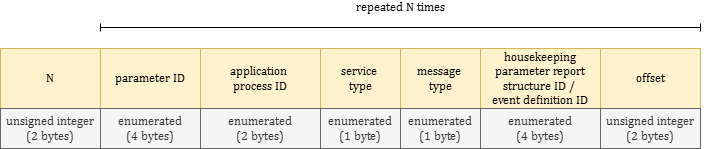
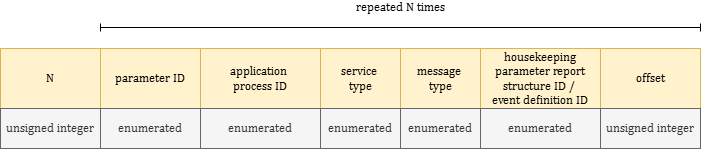
updates for service 26: data types without size

diff --git a/img/PUSpkt_26_4.html b/img/PUSpkt_26_4.html
@@ -6,7 +6,7 @@
 <meta charset="utf-8"/>
 </head>
 <body>
-<div class="mxgraph" style="max-width:100%;border:1px solid transparent;" data-mxgraph="{&quot;highlight&quot;:&quot;#0000ff&quot;,&quot;nav&quot;:true,&quot;resize&quot;:true,&quot;xml&quot;:&quot;&lt;mxfile host=\&quot;app.diagrams.net\&quot;&gt;&lt;diagram name=\&quot;Página-1\&quot; id=\&quot;PEEKEmfRfW4e5rl4SAep\&quot;&gt;&lt;mxGraphModel dx=\&quot;990\&quot; dy=\&quot;500\&quot; grid=\&quot;1\&quot; gridSize=\&quot;10\&quot; guides=\&quot;1\&quot; tooltips=\&quot;1\&quot; connect=\&quot;1\&quot; arrows=\&quot;1\&quot; fold=\&quot;1\&quot; page=\&quot;1\&quot; pageScale=\&quot;1\&quot; pageWidth=\&quot;1169\&quot; pageHeight=\&quot;827\&quot; math=\&quot;0\&quot; shadow=\&quot;0\&quot;&gt;&lt;root&gt;&lt;mxCell id=\&quot;0\&quot;/&gt;&lt;mxCell id=\&quot;1\&quot; parent=\&quot;0\&quot;/&gt;&lt;mxCell id=\&quot;n6o8E1BFqvfT5n5fjlNs-1\&quot; parent=\&quot;1\&quot; style=\&quot;rounded=0;whiteSpace=wrap;html=1;fillColor=#dae8fc;strokeColor=#6c8ebf;fontFamily=Cambria;\&quot; value=\&quot;N\&quot; vertex=\&quot;1\&quot;&gt;&lt;mxGeometry height=\&quot;80\&quot; width=\&quot;105\&quot; x=\&quot;80\&quot; y=\&quot;313\&quot; as=\&quot;geometry\&quot;/&gt;&lt;/mxCell&gt;&lt;mxCell id=\&quot;hAPcxWkqHWmj-aMiRUPT-4\&quot; parent=\&quot;1\&quot; style=\&quot;rounded=0;whiteSpace=wrap;html=1;fillColor=#dae8fc;strokeColor=#6c8ebf;fontFamily=Cambria;\&quot; value=\&quot;housekeeping parameter report structure ID /&amp;amp;nbsp;&amp;lt;div&amp;gt;event definition ID&amp;lt;/div&amp;gt;\&quot; vertex=\&quot;1\&quot;&gt;&lt;mxGeometry height=\&quot;80\&quot; width=\&quot;120\&quot; x=\&quot;550\&quot; y=\&quot;313\&quot; as=\&quot;geometry\&quot;/&gt;&lt;/mxCell&gt;&lt;mxCell id=\&quot;evMKkM_7Siz1nhXzdx8R-12\&quot; parent=\&quot;1\&quot; style=\&quot;rounded=0;whiteSpace=wrap;html=1;fillColor=#f5f5f5;strokeColor=#666666;fontColor=#333333;fontFamily=Cambria;\&quot; value=\&quot;unsigned&amp;amp;nbsp;&amp;lt;span style=&amp;quot;background-color: transparent; color: light-dark(rgb(51, 51, 51), rgb(193, 193, 193));&amp;quot;&amp;gt;integer&amp;lt;/span&amp;gt;&amp;lt;div&amp;gt;&amp;lt;span style=&amp;quot;background-color: transparent; color: light-dark(rgb(51, 51, 51), rgb(193, 193, 193));&amp;quot;&amp;gt;(2 bytes)&amp;lt;/span&amp;gt;&amp;lt;/div&amp;gt;\&quot; vertex=\&quot;1\&quot;&gt;&lt;mxGeometry height=\&quot;40\&quot; width=\&quot;105\&quot; x=\&quot;80\&quot; y=\&quot;393\&quot; as=\&quot;geometry\&quot;/&gt;&lt;/mxCell&gt;&lt;mxCell id=\&quot;hAPcxWkqHWmj-aMiRUPT-3\&quot; parent=\&quot;1\&quot; style=\&quot;rounded=0;whiteSpace=wrap;html=1;fillColor=#f5f5f5;strokeColor=#666666;fontColor=#333333;fontFamily=Cambria;\&quot; value=\&quot;&amp;lt;div&amp;gt;&amp;lt;br&amp;gt;&amp;lt;/div&amp;gt;&amp;lt;div&amp;gt;&amp;lt;span style=&amp;quot;color: rgb(51, 51, 51); background-color: rgb(236, 236, 236); float: none; display: inline !important;&amp;quot;&amp;gt;enumerated&amp;lt;/span&amp;gt;&amp;lt;div&amp;gt;(4 bytes)&amp;lt;br&amp;gt;&amp;lt;div&amp;gt;&amp;lt;br&amp;gt;&amp;lt;/div&amp;gt;&amp;lt;/div&amp;gt;&amp;lt;/div&amp;gt;\&quot; vertex=\&quot;1\&quot;&gt;&lt;mxGeometry height=\&quot;40\&quot; width=\&quot;120\&quot; x=\&quot;550\&quot; y=\&quot;393\&quot; as=\&quot;geometry\&quot;/&gt;&lt;/mxCell&gt;&lt;mxCell id=\&quot;jR5ShK0rZ74IJIbXl2Gh-2\&quot; edge=\&quot;1\&quot; parent=\&quot;1\&quot; style=\&quot;endArrow=baseDash;html=1;rounded=0;startArrow=baseDash;startFill=0;endFill=0;fontFamily=Cambria;fontSize=12;labelBackgroundColor=none;\&quot; value=\&quot;&amp;amp;nbsp;repeated N2 times&amp;amp;nbsp;\&quot;&gt;&lt;mxGeometry height=\&quot;50\&quot; relative=\&quot;1\&quot; width=\&quot;50\&quot; x=\&quot;0.1333\&quot; y=\&quot;20\&quot; as=\&quot;geometry\&quot;&gt;&lt;mxPoint as=\&quot;offset\&quot;/&gt;&lt;mxPoint x=\&quot;190\&quot; y=\&quot;300\&quot; as=\&quot;sourcePoint\&quot;/&gt;&lt;mxPoint x=\&quot;790\&quot; y=\&quot;300\&quot; as=\&quot;targetPoint\&quot;/&gt;&lt;/mxGeometry&gt;&lt;/mxCell&gt;&lt;mxCell id=\&quot;jR5ShK0rZ74IJIbXl2Gh-3\&quot; parent=\&quot;1\&quot; style=\&quot;rounded=0;whiteSpace=wrap;html=1;fillColor=#dae8fc;strokeColor=#6c8ebf;fontFamily=Cambria;\&quot; value=\&quot;message&amp;amp;nbsp;&amp;lt;div&amp;gt;type&amp;lt;/div&amp;gt;\&quot; vertex=\&quot;1\&quot;&gt;&lt;mxGeometry height=\&quot;80\&quot; width=\&quot;95\&quot; x=\&quot;455\&quot; y=\&quot;313\&quot; as=\&quot;geometry\&quot;/&gt;&lt;/mxCell&gt;&lt;mxCell id=\&quot;jR5ShK0rZ74IJIbXl2Gh-4\&quot; parent=\&quot;1\&quot; style=\&quot;rounded=0;whiteSpace=wrap;html=1;fillColor=#f5f5f5;strokeColor=#666666;fontColor=#333333;fontFamily=Cambria;\&quot; value=\&quot;&amp;lt;div&amp;gt;&amp;lt;div&amp;gt;&amp;lt;div&amp;gt;&amp;lt;br&amp;gt;&amp;lt;/div&amp;gt;&amp;lt;/div&amp;gt;&amp;lt;/div&amp;gt;&amp;lt;div&amp;gt;&amp;lt;span style=&amp;quot;color: rgb(51, 51, 51); background-color: rgb(236, 236, 236); float: none; display: inline !important;&amp;quot;&amp;gt;enumerated&amp;lt;/span&amp;gt;&amp;lt;div&amp;gt;(1 byte)&amp;lt;br&amp;gt;&amp;lt;div&amp;gt;&amp;lt;br&amp;gt;&amp;lt;/div&amp;gt;&amp;lt;/div&amp;gt;&amp;lt;/div&amp;gt;\&quot; vertex=\&quot;1\&quot;&gt;&lt;mxGeometry height=\&quot;40\&quot; width=\&quot;95\&quot; x=\&quot;455\&quot; y=\&quot;393\&quot; as=\&quot;geometry\&quot;/&gt;&lt;/mxCell&gt;&lt;mxCell id=\&quot;jR5ShK0rZ74IJIbXl2Gh-5\&quot; parent=\&quot;1\&quot; style=\&quot;rounded=0;whiteSpace=wrap;html=1;fillColor=#dae8fc;strokeColor=#6c8ebf;fontFamily=Cambria;\&quot; value=\&quot;parameter ID\&quot; vertex=\&quot;1\&quot;&gt;&lt;mxGeometry height=\&quot;80\&quot; width=\&quot;95\&quot; x=\&quot;185\&quot; y=\&quot;313\&quot; as=\&quot;geometry\&quot;/&gt;&lt;/mxCell&gt;&lt;mxCell id=\&quot;jR5ShK0rZ74IJIbXl2Gh-6\&quot; parent=\&quot;1\&quot; style=\&quot;rounded=0;whiteSpace=wrap;html=1;fillColor=#f5f5f5;strokeColor=#666666;fontColor=#333333;fontFamily=Cambria;\&quot; value=\&quot;&amp;lt;div&amp;gt;&amp;lt;br&amp;gt;&amp;lt;/div&amp;gt;&amp;lt;span style=&amp;quot;color: rgb(51, 51, 51); font-family: Cambria; font-size: 12px; font-style: normal; font-variant-ligatures: normal; font-variant-caps: normal; font-weight: 400; letter-spacing: normal; orphans: 2; text-align: center; text-indent: 0px; text-transform: none; widows: 2; word-spacing: 0px; -webkit-text-stroke-width: 0px; white-space: normal; background-color: rgb(236, 236, 236); text-decoration-thickness: initial; text-decoration-style: initial; text-decoration-color: initial; float: none; display: inline !important;&amp;quot;&amp;gt;enumerated&amp;lt;/span&amp;gt;&amp;lt;div&amp;gt;(4 bytes)&amp;lt;br&amp;gt;&amp;lt;div&amp;gt;&amp;lt;br&amp;gt;&amp;lt;/div&amp;gt;&amp;lt;/div&amp;gt;\&quot; vertex=\&quot;1\&quot;&gt;&lt;mxGeometry height=\&quot;40\&quot; width=\&quot;95\&quot; x=\&quot;185\&quot; y=\&quot;393\&quot; as=\&quot;geometry\&quot;/&gt;&lt;/mxCell&gt;&lt;mxCell id=\&quot;jR5ShK0rZ74IJIbXl2Gh-7\&quot; parent=\&quot;1\&quot; style=\&quot;rounded=0;whiteSpace=wrap;html=1;fillColor=#dae8fc;strokeColor=#6c8ebf;fontFamily=Cambria;\&quot; value=\&quot;service type\&quot; vertex=\&quot;1\&quot;&gt;&lt;mxGeometry height=\&quot;80\&quot; width=\&quot;95\&quot; x=\&quot;360\&quot; y=\&quot;313\&quot; as=\&quot;geometry\&quot;/&gt;&lt;/mxCell&gt;&lt;mxCell id=\&quot;jR5ShK0rZ74IJIbXl2Gh-8\&quot; parent=\&quot;1\&quot; style=\&quot;rounded=0;whiteSpace=wrap;html=1;fillColor=#f5f5f5;strokeColor=#666666;fontColor=#333333;fontFamily=Cambria;\&quot; value=\&quot;&amp;lt;br&amp;gt;&amp;lt;div&amp;gt;&amp;lt;span style=&amp;quot;color: rgb(51, 51, 51); background-color: rgb(236, 236, 236); float: none; display: inline !important;&amp;quot;&amp;gt;enumerated&amp;lt;/span&amp;gt;&amp;lt;div&amp;gt;(1 byte)&amp;lt;br&amp;gt;&amp;lt;div&amp;gt;&amp;lt;br&amp;gt;&amp;lt;/div&amp;gt;&amp;lt;/div&amp;gt;&amp;lt;/div&amp;gt;\&quot; vertex=\&quot;1\&quot;&gt;&lt;mxGeometry height=\&quot;40\&quot; width=\&quot;95\&quot; x=\&quot;360\&quot; y=\&quot;393\&quot; as=\&quot;geometry\&quot;/&gt;&lt;/mxCell&gt;&lt;mxCell id=\&quot;jR5ShK0rZ74IJIbXl2Gh-9\&quot; parent=\&quot;1\&quot; style=\&quot;rounded=0;whiteSpace=wrap;html=1;fillColor=#dae8fc;strokeColor=#6c8ebf;fontFamily=Cambria;\&quot; value=\&quot;application process ID\&quot; vertex=\&quot;1\&quot;&gt;&lt;mxGeometry height=\&quot;80\&quot; width=\&quot;80\&quot; x=\&quot;280\&quot; y=\&quot;313\&quot; as=\&quot;geometry\&quot;/&gt;&lt;/mxCell&gt;&lt;mxCell id=\&quot;jR5ShK0rZ74IJIbXl2Gh-10\&quot; parent=\&quot;1\&quot; style=\&quot;rounded=0;whiteSpace=wrap;html=1;fillColor=#f5f5f5;strokeColor=#666666;fontColor=#333333;fontFamily=Cambria;\&quot; value=\&quot;&amp;lt;br&amp;gt;&amp;lt;div&amp;gt;&amp;lt;span style=&amp;quot;color: rgb(51, 51, 51); background-color: rgb(236, 236, 236); float: none; display: inline !important;&amp;quot;&amp;gt;enumerated&amp;lt;/span&amp;gt;&amp;lt;div&amp;gt;(2 bytes)&amp;lt;br&amp;gt;&amp;lt;div&amp;gt;&amp;lt;br&amp;gt;&amp;lt;/div&amp;gt;&amp;lt;/div&amp;gt;&amp;lt;/div&amp;gt;\&quot; vertex=\&quot;1\&quot;&gt;&lt;mxGeometry height=\&quot;40\&quot; width=\&quot;80\&quot; x=\&quot;280\&quot; y=\&quot;393\&quot; as=\&quot;geometry\&quot;/&gt;&lt;/mxCell&gt;&lt;mxCell id=\&quot;X7iC9lxR5XgA4CCo0ZHM-1\&quot; parent=\&quot;1\&quot; style=\&quot;rounded=0;whiteSpace=wrap;html=1;fillColor=#dae8fc;strokeColor=#6c8ebf;fontFamily=Cambria;\&quot; value=\&quot;offset\&quot; vertex=\&quot;1\&quot;&gt;&lt;mxGeometry height=\&quot;80\&quot; width=\&quot;120\&quot; x=\&quot;670\&quot; y=\&quot;313\&quot; as=\&quot;geometry\&quot;/&gt;&lt;/mxCell&gt;&lt;mxCell id=\&quot;X7iC9lxR5XgA4CCo0ZHM-2\&quot; parent=\&quot;1\&quot; style=\&quot;rounded=0;whiteSpace=wrap;html=1;fillColor=#f5f5f5;strokeColor=#666666;fontColor=#333333;fontFamily=Cambria;\&quot; value=\&quot;&amp;lt;div&amp;gt;unsigned &amp;lt;span style=&amp;quot;color: light-dark(rgb(51, 51, 51), rgb(193, 193, 193)); background-color: transparent;&amp;quot;&amp;gt;integer&amp;lt;/span&amp;gt;&amp;lt;div&amp;gt;&amp;lt;span style=&amp;quot;background-color: transparent; color: light-dark(rgb(51, 51, 51), rgb(193, 193, 193));&amp;quot;&amp;gt;(2 bytes)&amp;lt;/span&amp;gt;&amp;lt;/div&amp;gt;&amp;lt;/div&amp;gt;\&quot; vertex=\&quot;1\&quot;&gt;&lt;mxGeometry height=\&quot;40\&quot; width=\&quot;120\&quot; x=\&quot;670\&quot; y=\&quot;393\&quot; as=\&quot;geometry\&quot;/&gt;&lt;/mxCell&gt;&lt;/root&gt;&lt;/mxGraphModel&gt;&lt;/diagram&gt;&lt;/mxfile&gt;&quot;,&quot;toolbar&quot;:&quot;pages zoom layers lightbox&quot;,&quot;page&quot;:0}"></div>
+<div class="mxgraph" style="max-width:100%;border:1px solid transparent;" data-mxgraph="{&quot;highlight&quot;:&quot;#0000ff&quot;,&quot;nav&quot;:true,&quot;resize&quot;:true,&quot;xml&quot;:&quot;&lt;mxfile host=\&quot;app.diagrams.net\&quot;&gt;&lt;diagram name=\&quot;Página-1\&quot; id=\&quot;PEEKEmfRfW4e5rl4SAep\&quot;&gt;&lt;mxGraphModel dx=\&quot;1087\&quot; dy=\&quot;737\&quot; grid=\&quot;1\&quot; gridSize=\&quot;10\&quot; guides=\&quot;1\&quot; tooltips=\&quot;1\&quot; connect=\&quot;1\&quot; arrows=\&quot;1\&quot; fold=\&quot;1\&quot; page=\&quot;1\&quot; pageScale=\&quot;1\&quot; pageWidth=\&quot;1169\&quot; pageHeight=\&quot;827\&quot; math=\&quot;0\&quot; shadow=\&quot;0\&quot;&gt;&lt;root&gt;&lt;mxCell id=\&quot;0\&quot;/&gt;&lt;mxCell id=\&quot;1\&quot; parent=\&quot;0\&quot;/&gt;&lt;mxCell id=\&quot;n6o8E1BFqvfT5n5fjlNs-1\&quot; parent=\&quot;1\&quot; style=\&quot;rounded=0;whiteSpace=wrap;html=1;fillColor=#dae8fc;strokeColor=#6c8ebf;fontFamily=Cambria;\&quot; value=\&quot;N\&quot; vertex=\&quot;1\&quot;&gt;&lt;mxGeometry height=\&quot;80\&quot; width=\&quot;105\&quot; x=\&quot;80\&quot; y=\&quot;313\&quot; as=\&quot;geometry\&quot;/&gt;&lt;/mxCell&gt;&lt;mxCell id=\&quot;hAPcxWkqHWmj-aMiRUPT-4\&quot; parent=\&quot;1\&quot; style=\&quot;rounded=0;whiteSpace=wrap;html=1;fillColor=#dae8fc;strokeColor=#6c8ebf;fontFamily=Cambria;\&quot; value=\&quot;housekeeping parameter report structure ID /&amp;amp;nbsp;&amp;lt;div&amp;gt;event definition ID&amp;lt;/div&amp;gt;\&quot; vertex=\&quot;1\&quot;&gt;&lt;mxGeometry height=\&quot;80\&quot; width=\&quot;120\&quot; x=\&quot;550\&quot; y=\&quot;313\&quot; as=\&quot;geometry\&quot;/&gt;&lt;/mxCell&gt;&lt;mxCell id=\&quot;evMKkM_7Siz1nhXzdx8R-12\&quot; parent=\&quot;1\&quot; style=\&quot;rounded=0;whiteSpace=wrap;html=1;fillColor=#f5f5f5;strokeColor=#666666;fontColor=#333333;fontFamily=Cambria;\&quot; value=\&quot;unsigned&amp;amp;nbsp;&amp;lt;span style=&amp;quot;background-color: transparent; color: light-dark(rgb(51, 51, 51), rgb(193, 193, 193));&amp;quot;&amp;gt;integer&amp;lt;/span&amp;gt;\&quot; vertex=\&quot;1\&quot;&gt;&lt;mxGeometry height=\&quot;40\&quot; width=\&quot;105\&quot; x=\&quot;80\&quot; y=\&quot;393\&quot; as=\&quot;geometry\&quot;/&gt;&lt;/mxCell&gt;&lt;mxCell id=\&quot;hAPcxWkqHWmj-aMiRUPT-3\&quot; parent=\&quot;1\&quot; style=\&quot;rounded=0;whiteSpace=wrap;html=1;fillColor=#f5f5f5;strokeColor=#666666;fontColor=#333333;fontFamily=Cambria;\&quot; value=\&quot;&amp;lt;div&amp;gt;&amp;lt;br&amp;gt;&amp;lt;/div&amp;gt;&amp;lt;div&amp;gt;&amp;lt;span style=&amp;quot;color: rgb(51, 51, 51); background-color: rgb(236, 236, 236); float: none; display: inline !important;&amp;quot;&amp;gt;enumerated&amp;lt;/span&amp;gt;&amp;lt;div&amp;gt;&amp;lt;div&amp;gt;&amp;lt;br&amp;gt;&amp;lt;/div&amp;gt;&amp;lt;/div&amp;gt;&amp;lt;/div&amp;gt;\&quot; vertex=\&quot;1\&quot;&gt;&lt;mxGeometry height=\&quot;40\&quot; width=\&quot;120\&quot; x=\&quot;550\&quot; y=\&quot;393\&quot; as=\&quot;geometry\&quot;/&gt;&lt;/mxCell&gt;&lt;mxCell id=\&quot;jR5ShK0rZ74IJIbXl2Gh-2\&quot; edge=\&quot;1\&quot; parent=\&quot;1\&quot; style=\&quot;endArrow=baseDash;html=1;rounded=0;startArrow=baseDash;startFill=0;endFill=0;fontFamily=Cambria;fontSize=12;labelBackgroundColor=none;\&quot; value=\&quot;&amp;amp;nbsp;repeated N2 times&amp;amp;nbsp;\&quot;&gt;&lt;mxGeometry height=\&quot;50\&quot; relative=\&quot;1\&quot; width=\&quot;50\&quot; x=\&quot;0.1333\&quot; y=\&quot;20\&quot; as=\&quot;geometry\&quot;&gt;&lt;mxPoint as=\&quot;offset\&quot;/&gt;&lt;mxPoint x=\&quot;190\&quot; y=\&quot;300\&quot; as=\&quot;sourcePoint\&quot;/&gt;&lt;mxPoint x=\&quot;790\&quot; y=\&quot;300\&quot; as=\&quot;targetPoint\&quot;/&gt;&lt;/mxGeometry&gt;&lt;/mxCell&gt;&lt;mxCell id=\&quot;jR5ShK0rZ74IJIbXl2Gh-3\&quot; parent=\&quot;1\&quot; style=\&quot;rounded=0;whiteSpace=wrap;html=1;fillColor=#dae8fc;strokeColor=#6c8ebf;fontFamily=Cambria;\&quot; value=\&quot;message&amp;amp;nbsp;&amp;lt;div&amp;gt;type&amp;lt;/div&amp;gt;\&quot; vertex=\&quot;1\&quot;&gt;&lt;mxGeometry height=\&quot;80\&quot; width=\&quot;95\&quot; x=\&quot;455\&quot; y=\&quot;313\&quot; as=\&quot;geometry\&quot;/&gt;&lt;/mxCell&gt;&lt;mxCell id=\&quot;jR5ShK0rZ74IJIbXl2Gh-4\&quot; parent=\&quot;1\&quot; style=\&quot;rounded=0;whiteSpace=wrap;html=1;fillColor=#f5f5f5;strokeColor=#666666;fontColor=#333333;fontFamily=Cambria;\&quot; value=\&quot;&amp;lt;div&amp;gt;&amp;lt;div&amp;gt;&amp;lt;div&amp;gt;&amp;lt;br&amp;gt;&amp;lt;/div&amp;gt;&amp;lt;/div&amp;gt;&amp;lt;/div&amp;gt;&amp;lt;div&amp;gt;&amp;lt;span style=&amp;quot;color: rgb(51, 51, 51); background-color: rgb(236, 236, 236); float: none; display: inline !important;&amp;quot;&amp;gt;enumerated&amp;lt;/span&amp;gt;&amp;lt;div&amp;gt;&amp;lt;div&amp;gt;&amp;lt;br&amp;gt;&amp;lt;/div&amp;gt;&amp;lt;/div&amp;gt;&amp;lt;/div&amp;gt;\&quot; vertex=\&quot;1\&quot;&gt;&lt;mxGeometry height=\&quot;40\&quot; width=\&quot;95\&quot; x=\&quot;455\&quot; y=\&quot;393\&quot; as=\&quot;geometry\&quot;/&gt;&lt;/mxCell&gt;&lt;mxCell id=\&quot;jR5ShK0rZ74IJIbXl2Gh-5\&quot; parent=\&quot;1\&quot; style=\&quot;rounded=0;whiteSpace=wrap;html=1;fillColor=#dae8fc;strokeColor=#6c8ebf;fontFamily=Cambria;\&quot; value=\&quot;parameter ID\&quot; vertex=\&quot;1\&quot;&gt;&lt;mxGeometry height=\&quot;80\&quot; width=\&quot;95\&quot; x=\&quot;185\&quot; y=\&quot;313\&quot; as=\&quot;geometry\&quot;/&gt;&lt;/mxCell&gt;&lt;mxCell id=\&quot;jR5ShK0rZ74IJIbXl2Gh-6\&quot; parent=\&quot;1\&quot; style=\&quot;rounded=0;whiteSpace=wrap;html=1;fillColor=#f5f5f5;strokeColor=#666666;fontColor=#333333;fontFamily=Cambria;\&quot; value=\&quot;&amp;lt;div&amp;gt;&amp;lt;br&amp;gt;&amp;lt;/div&amp;gt;&amp;lt;span style=&amp;quot;color: rgb(51, 51, 51); font-family: Cambria; font-size: 12px; font-style: normal; font-variant-ligatures: normal; font-variant-caps: normal; font-weight: 400; letter-spacing: normal; orphans: 2; text-align: center; text-indent: 0px; text-transform: none; widows: 2; word-spacing: 0px; -webkit-text-stroke-width: 0px; white-space: normal; background-color: rgb(236, 236, 236); text-decoration-thickness: initial; text-decoration-style: initial; text-decoration-color: initial; float: none; display: inline !important;&amp;quot;&amp;gt;enumerated&amp;lt;/span&amp;gt;&amp;lt;div&amp;gt;&amp;lt;div&amp;gt;&amp;lt;br&amp;gt;&amp;lt;/div&amp;gt;&amp;lt;/div&amp;gt;\&quot; vertex=\&quot;1\&quot;&gt;&lt;mxGeometry height=\&quot;40\&quot; width=\&quot;95\&quot; x=\&quot;185\&quot; y=\&quot;393\&quot; as=\&quot;geometry\&quot;/&gt;&lt;/mxCell&gt;&lt;mxCell id=\&quot;jR5ShK0rZ74IJIbXl2Gh-7\&quot; parent=\&quot;1\&quot; style=\&quot;rounded=0;whiteSpace=wrap;html=1;fillColor=#dae8fc;strokeColor=#6c8ebf;fontFamily=Cambria;\&quot; value=\&quot;service type\&quot; vertex=\&quot;1\&quot;&gt;&lt;mxGeometry height=\&quot;80\&quot; width=\&quot;95\&quot; x=\&quot;360\&quot; y=\&quot;313\&quot; as=\&quot;geometry\&quot;/&gt;&lt;/mxCell&gt;&lt;mxCell id=\&quot;jR5ShK0rZ74IJIbXl2Gh-8\&quot; parent=\&quot;1\&quot; style=\&quot;rounded=0;whiteSpace=wrap;html=1;fillColor=#f5f5f5;strokeColor=#666666;fontColor=#333333;fontFamily=Cambria;\&quot; value=\&quot;&amp;lt;br&amp;gt;&amp;lt;div&amp;gt;&amp;lt;span style=&amp;quot;color: rgb(51, 51, 51); background-color: rgb(236, 236, 236); float: none; display: inline !important;&amp;quot;&amp;gt;enumerated&amp;lt;/span&amp;gt;&amp;lt;div&amp;gt;&amp;lt;div&amp;gt;&amp;lt;br&amp;gt;&amp;lt;/div&amp;gt;&amp;lt;/div&amp;gt;&amp;lt;/div&amp;gt;\&quot; vertex=\&quot;1\&quot;&gt;&lt;mxGeometry height=\&quot;40\&quot; width=\&quot;95\&quot; x=\&quot;360\&quot; y=\&quot;393\&quot; as=\&quot;geometry\&quot;/&gt;&lt;/mxCell&gt;&lt;mxCell id=\&quot;jR5ShK0rZ74IJIbXl2Gh-9\&quot; parent=\&quot;1\&quot; style=\&quot;rounded=0;whiteSpace=wrap;html=1;fillColor=#dae8fc;strokeColor=#6c8ebf;fontFamily=Cambria;\&quot; value=\&quot;application process ID\&quot; vertex=\&quot;1\&quot;&gt;&lt;mxGeometry height=\&quot;80\&quot; width=\&quot;80\&quot; x=\&quot;280\&quot; y=\&quot;313\&quot; as=\&quot;geometry\&quot;/&gt;&lt;/mxCell&gt;&lt;mxCell id=\&quot;jR5ShK0rZ74IJIbXl2Gh-10\&quot; parent=\&quot;1\&quot; style=\&quot;rounded=0;whiteSpace=wrap;html=1;fillColor=#f5f5f5;strokeColor=#666666;fontColor=#333333;fontFamily=Cambria;\&quot; value=\&quot;&amp;lt;br&amp;gt;&amp;lt;div&amp;gt;&amp;lt;span style=&amp;quot;color: rgb(51, 51, 51); background-color: rgb(236, 236, 236); float: none; display: inline !important;&amp;quot;&amp;gt;enumerated&amp;lt;/span&amp;gt;&amp;lt;div&amp;gt;&amp;lt;div&amp;gt;&amp;lt;br&amp;gt;&amp;lt;/div&amp;gt;&amp;lt;/div&amp;gt;&amp;lt;/div&amp;gt;\&quot; vertex=\&quot;1\&quot;&gt;&lt;mxGeometry height=\&quot;40\&quot; width=\&quot;80\&quot; x=\&quot;280\&quot; y=\&quot;393\&quot; as=\&quot;geometry\&quot;/&gt;&lt;/mxCell&gt;&lt;mxCell id=\&quot;X7iC9lxR5XgA4CCo0ZHM-1\&quot; parent=\&quot;1\&quot; style=\&quot;rounded=0;whiteSpace=wrap;html=1;fillColor=#dae8fc;strokeColor=#6c8ebf;fontFamily=Cambria;\&quot; value=\&quot;offset\&quot; vertex=\&quot;1\&quot;&gt;&lt;mxGeometry height=\&quot;80\&quot; width=\&quot;120\&quot; x=\&quot;670\&quot; y=\&quot;313\&quot; as=\&quot;geometry\&quot;/&gt;&lt;/mxCell&gt;&lt;mxCell id=\&quot;X7iC9lxR5XgA4CCo0ZHM-2\&quot; parent=\&quot;1\&quot; style=\&quot;rounded=0;whiteSpace=wrap;html=1;fillColor=#f5f5f5;strokeColor=#666666;fontColor=#333333;fontFamily=Cambria;\&quot; value=\&quot;unsigned &amp;lt;span style=&amp;quot;color: light-dark(rgb(51, 51, 51), rgb(193, 193, 193)); background-color: transparent;&amp;quot;&amp;gt;integer&amp;lt;/span&amp;gt;\&quot; vertex=\&quot;1\&quot;&gt;&lt;mxGeometry height=\&quot;40\&quot; width=\&quot;120\&quot; x=\&quot;670\&quot; y=\&quot;393\&quot; as=\&quot;geometry\&quot;/&gt;&lt;/mxCell&gt;&lt;/root&gt;&lt;/mxGraphModel&gt;&lt;/diagram&gt;&lt;/mxfile&gt;&quot;,&quot;toolbar&quot;:&quot;pages zoom layers lightbox&quot;,&quot;page&quot;:0}"></div>
 <script type="text/javascript" src="https://app.diagrams.net/js/viewer-static.min.js"></script>
 </body>
 </html>

diff --git a/img/PUSpkt_26_1.html b/img/PUSpkt_26_1.html
@@ -6,7 +6,7 @@
 <meta charset="utf-8"/>
 </head>
 <body>
-<div class="mxgraph" style="max-width:100%;border:1px solid transparent;" data-mxgraph="{&quot;highlight&quot;:&quot;#0000ff&quot;,&quot;nav&quot;:true,&quot;resize&quot;:true,&quot;xml&quot;:&quot;&lt;mxfile host=\&quot;app.diagrams.net\&quot;&gt;&lt;diagram name=\&quot;Página-1\&quot; id=\&quot;zq5ytOIrGKT4dHeC8xlt\&quot;&gt;&lt;mxGraphModel dx=\&quot;668\&quot; dy=\&quot;692\&quot; grid=\&quot;1\&quot; gridSize=\&quot;10\&quot; guides=\&quot;1\&quot; tooltips=\&quot;1\&quot; connect=\&quot;1\&quot; arrows=\&quot;1\&quot; fold=\&quot;1\&quot; page=\&quot;1\&quot; pageScale=\&quot;1\&quot; pageWidth=\&quot;1169\&quot; pageHeight=\&quot;827\&quot; math=\&quot;0\&quot; shadow=\&quot;0\&quot;&gt;&lt;root&gt;&lt;mxCell id=\&quot;0\&quot;/&gt;&lt;mxCell id=\&quot;1\&quot; parent=\&quot;0\&quot;/&gt;&lt;mxCell id=\&quot;-cElDobEpKjPaM26PwZY-3\&quot; parent=\&quot;1\&quot; style=\&quot;rounded=0;whiteSpace=wrap;html=1;fillColor=#fff2cc;strokeColor=#d6b656;fontFamily=Cambria;\&quot; value=\&quot;N\&quot; vertex=\&quot;1\&quot;&gt;&lt;mxGeometry height=\&quot;60\&quot; width=\&quot;100\&quot; x=\&quot;60\&quot; y=\&quot;220\&quot; as=\&quot;geometry\&quot;/&gt;&lt;/mxCell&gt;&lt;mxCell id=\&quot;-cElDobEpKjPaM26PwZY-4\&quot; parent=\&quot;1\&quot; style=\&quot;rounded=0;whiteSpace=wrap;html=1;fillColor=#fff2cc;strokeColor=#d6b656;fontFamily=Cambria;\&quot; value=\&quot;parameter ID\&quot; vertex=\&quot;1\&quot;&gt;&lt;mxGeometry height=\&quot;60\&quot; width=\&quot;100\&quot; x=\&quot;160\&quot; y=\&quot;220\&quot; as=\&quot;geometry\&quot;/&gt;&lt;/mxCell&gt;&lt;mxCell id=\&quot;-cElDobEpKjPaM26PwZY-5\&quot; edge=\&quot;1\&quot; parent=\&quot;1\&quot; style=\&quot;endArrow=baseDash;html=1;rounded=0;startArrow=baseDash;startFill=0;endFill=0;fontFamily=Cambria;labelBackgroundColor=none;\&quot; value=\&quot;&amp;lt;font style=&amp;quot;font-size: 12px;&amp;quot;&amp;gt;&amp;amp;nbsp;repeated N times&amp;amp;nbsp;&amp;lt;/font&amp;gt;\&quot;&gt;&lt;mxGeometry height=\&quot;50\&quot; relative=\&quot;1\&quot; width=\&quot;50\&quot; y=\&quot;20\&quot; as=\&quot;geometry\&quot;&gt;&lt;mxPoint as=\&quot;offset\&quot;/&gt;&lt;mxPoint x=\&quot;160\&quot; y=\&quot;199\&quot; as=\&quot;sourcePoint\&quot;/&gt;&lt;mxPoint x=\&quot;760\&quot; y=\&quot;199\&quot; as=\&quot;targetPoint\&quot;/&gt;&lt;/mxGeometry&gt;&lt;/mxCell&gt;&lt;mxCell id=\&quot;-cElDobEpKjPaM26PwZY-1\&quot; parent=\&quot;1\&quot; style=\&quot;rounded=0;whiteSpace=wrap;html=1;fillColor=#f5f5f5;strokeColor=#666666;fontColor=#333333;fontFamily=Cambria;\&quot; value=\&quot;unsigned&amp;amp;nbsp;&amp;lt;span style=&amp;quot;background-color: transparent; color: light-dark(rgb(51, 51, 51), rgb(193, 193, 193));&amp;quot;&amp;gt;integer&amp;lt;/span&amp;gt;&amp;lt;div&amp;gt;(2 bytes)&amp;lt;/div&amp;gt;\&quot; vertex=\&quot;1\&quot;&gt;&lt;mxGeometry height=\&quot;40\&quot; width=\&quot;100\&quot; x=\&quot;60\&quot; y=\&quot;280\&quot; as=\&quot;geometry\&quot;/&gt;&lt;/mxCell&gt;&lt;mxCell id=\&quot;-cElDobEpKjPaM26PwZY-2\&quot; parent=\&quot;1\&quot; style=\&quot;rounded=0;whiteSpace=wrap;html=1;fillColor=#f5f5f5;strokeColor=#666666;fontColor=#333333;fontFamily=Cambria;\&quot; value=\&quot;enumerated&amp;lt;div&amp;gt;(4 bytes)&amp;lt;/div&amp;gt;\&quot; vertex=\&quot;1\&quot;&gt;&lt;mxGeometry height=\&quot;40\&quot; width=\&quot;100\&quot; x=\&quot;160\&quot; y=\&quot;280\&quot; as=\&quot;geometry\&quot;/&gt;&lt;/mxCell&gt;&lt;mxCell id=\&quot;-cElDobEpKjPaM26PwZY-6\&quot; parent=\&quot;1\&quot; style=\&quot;rounded=0;whiteSpace=wrap;html=1;fillColor=#fff2cc;strokeColor=#d6b656;fontFamily=Cambria;\&quot; value=\&quot;application&amp;amp;nbsp;&amp;lt;div&amp;gt;process&amp;lt;span style=&amp;quot;background-color: transparent; color: light-dark(rgb(0, 0, 0), rgb(255, 255, 255));&amp;quot;&amp;gt;&amp;amp;nbsp;ID&amp;lt;/span&amp;gt;&amp;lt;/div&amp;gt;\&quot; vertex=\&quot;1\&quot;&gt;&lt;mxGeometry height=\&quot;60\&quot; width=\&quot;120\&quot; x=\&quot;260\&quot; y=\&quot;220\&quot; as=\&quot;geometry\&quot;/&gt;&lt;/mxCell&gt;&lt;mxCell id=\&quot;-cElDobEpKjPaM26PwZY-7\&quot; parent=\&quot;1\&quot; style=\&quot;rounded=0;whiteSpace=wrap;html=1;fillColor=#f5f5f5;strokeColor=#666666;fontColor=#333333;fontFamily=Cambria;\&quot; value=\&quot;enumerated&amp;lt;div&amp;gt;(2 bytes)&amp;lt;/div&amp;gt;\&quot; vertex=\&quot;1\&quot;&gt;&lt;mxGeometry height=\&quot;40\&quot; width=\&quot;120\&quot; x=\&quot;260\&quot; y=\&quot;280\&quot; as=\&quot;geometry\&quot;/&gt;&lt;/mxCell&gt;&lt;mxCell id=\&quot;-cElDobEpKjPaM26PwZY-10\&quot; parent=\&quot;1\&quot; style=\&quot;rounded=0;whiteSpace=wrap;html=1;fillColor=#fff2cc;strokeColor=#d6b656;fontFamily=Cambria;\&quot; value=\&quot;service&amp;amp;nbsp;&amp;lt;div&amp;gt;type&amp;lt;/div&amp;gt;\&quot; vertex=\&quot;1\&quot;&gt;&lt;mxGeometry height=\&quot;60\&quot; width=\&quot;80\&quot; x=\&quot;380\&quot; y=\&quot;220\&quot; as=\&quot;geometry\&quot;/&gt;&lt;/mxCell&gt;&lt;mxCell id=\&quot;-cElDobEpKjPaM26PwZY-11\&quot; parent=\&quot;1\&quot; style=\&quot;rounded=0;whiteSpace=wrap;html=1;fillColor=#f5f5f5;strokeColor=#666666;fontColor=#333333;fontFamily=Cambria;\&quot; value=\&quot;enumerated&amp;lt;div&amp;gt;(1 byte)&amp;lt;/div&amp;gt;\&quot; vertex=\&quot;1\&quot;&gt;&lt;mxGeometry height=\&quot;40\&quot; width=\&quot;80\&quot; x=\&quot;380\&quot; y=\&quot;280\&quot; as=\&quot;geometry\&quot;/&gt;&lt;/mxCell&gt;&lt;mxCell id=\&quot;AiiWusZk_OoLUvZR4fiY-1\&quot; parent=\&quot;1\&quot; style=\&quot;rounded=0;whiteSpace=wrap;html=1;fillColor=#fff2cc;strokeColor=#d6b656;fontFamily=Cambria;\&quot; value=\&quot;message&amp;amp;nbsp;&amp;lt;div&amp;gt;type&amp;lt;/div&amp;gt;\&quot; vertex=\&quot;1\&quot;&gt;&lt;mxGeometry height=\&quot;60\&quot; width=\&quot;80\&quot; x=\&quot;460\&quot; y=\&quot;220\&quot; as=\&quot;geometry\&quot;/&gt;&lt;/mxCell&gt;&lt;mxCell id=\&quot;AiiWusZk_OoLUvZR4fiY-2\&quot; parent=\&quot;1\&quot; style=\&quot;rounded=0;whiteSpace=wrap;html=1;fillColor=#f5f5f5;strokeColor=#666666;fontColor=#333333;fontFamily=Cambria;\&quot; value=\&quot;enumerated&amp;lt;div&amp;gt;(1 byte)&amp;lt;/div&amp;gt;\&quot; vertex=\&quot;1\&quot;&gt;&lt;mxGeometry height=\&quot;40\&quot; width=\&quot;80\&quot; x=\&quot;460\&quot; y=\&quot;280\&quot; as=\&quot;geometry\&quot;/&gt;&lt;/mxCell&gt;&lt;mxCell id=\&quot;AiiWusZk_OoLUvZR4fiY-3\&quot; parent=\&quot;1\&quot; style=\&quot;rounded=0;whiteSpace=wrap;html=1;fillColor=#fff2cc;strokeColor=#d6b656;fontFamily=Cambria;\&quot; value=\&quot;housekeeping&amp;lt;div&amp;gt;parameter report structure ID /&amp;amp;nbsp;&amp;lt;/div&amp;gt;&amp;lt;div&amp;gt;event definition ID&amp;lt;/div&amp;gt;\&quot; vertex=\&quot;1\&quot;&gt;&lt;mxGeometry height=\&quot;60\&quot; width=\&quot;120\&quot; x=\&quot;540\&quot; y=\&quot;220\&quot; as=\&quot;geometry\&quot;/&gt;&lt;/mxCell&gt;&lt;mxCell id=\&quot;AiiWusZk_OoLUvZR4fiY-4\&quot; parent=\&quot;1\&quot; style=\&quot;rounded=0;whiteSpace=wrap;html=1;fillColor=#f5f5f5;strokeColor=#666666;fontColor=#333333;fontFamily=Cambria;\&quot; value=\&quot;enumerated&amp;lt;div&amp;gt;(4 bytes)&amp;lt;/div&amp;gt;\&quot; vertex=\&quot;1\&quot;&gt;&lt;mxGeometry height=\&quot;40\&quot; width=\&quot;120\&quot; x=\&quot;540\&quot; y=\&quot;280\&quot; as=\&quot;geometry\&quot;/&gt;&lt;/mxCell&gt;&lt;mxCell id=\&quot;AiiWusZk_OoLUvZR4fiY-5\&quot; parent=\&quot;1\&quot; style=\&quot;rounded=0;whiteSpace=wrap;html=1;fillColor=#fff2cc;strokeColor=#d6b656;fontFamily=Cambria;\&quot; value=\&quot;offset\&quot; vertex=\&quot;1\&quot;&gt;&lt;mxGeometry height=\&quot;60\&quot; width=\&quot;100\&quot; x=\&quot;660\&quot; y=\&quot;220\&quot; as=\&quot;geometry\&quot;/&gt;&lt;/mxCell&gt;&lt;mxCell id=\&quot;AiiWusZk_OoLUvZR4fiY-6\&quot; parent=\&quot;1\&quot; style=\&quot;rounded=0;whiteSpace=wrap;html=1;fillColor=#f5f5f5;strokeColor=#666666;fontColor=#333333;fontFamily=Cambria;\&quot; value=\&quot;unsigned integer&amp;lt;br&amp;gt;&amp;lt;div&amp;gt;(2 bytes)&amp;lt;/div&amp;gt;\&quot; vertex=\&quot;1\&quot;&gt;&lt;mxGeometry height=\&quot;40\&quot; width=\&quot;100\&quot; x=\&quot;660\&quot; y=\&quot;280\&quot; as=\&quot;geometry\&quot;/&gt;&lt;/mxCell&gt;&lt;/root&gt;&lt;/mxGraphModel&gt;&lt;/diagram&gt;&lt;/mxfile&gt;&quot;,&quot;toolbar&quot;:&quot;pages zoom layers lightbox&quot;,&quot;page&quot;:0}"></div>
+<div class="mxgraph" style="max-width:100%;border:1px solid transparent;" data-mxgraph="{&quot;highlight&quot;:&quot;#0000ff&quot;,&quot;nav&quot;:true,&quot;resize&quot;:true,&quot;xml&quot;:&quot;&lt;mxfile host=\&quot;app.diagrams.net\&quot;&gt;&lt;diagram name=\&quot;Página-1\&quot; id=\&quot;zq5ytOIrGKT4dHeC8xlt\&quot;&gt;&lt;mxGraphModel dx=\&quot;1087\&quot; dy=\&quot;737\&quot; grid=\&quot;1\&quot; gridSize=\&quot;10\&quot; guides=\&quot;1\&quot; tooltips=\&quot;1\&quot; connect=\&quot;1\&quot; arrows=\&quot;1\&quot; fold=\&quot;1\&quot; page=\&quot;1\&quot; pageScale=\&quot;1\&quot; pageWidth=\&quot;1169\&quot; pageHeight=\&quot;827\&quot; math=\&quot;0\&quot; shadow=\&quot;0\&quot;&gt;&lt;root&gt;&lt;mxCell id=\&quot;0\&quot;/&gt;&lt;mxCell id=\&quot;1\&quot; parent=\&quot;0\&quot;/&gt;&lt;mxCell id=\&quot;-cElDobEpKjPaM26PwZY-3\&quot; parent=\&quot;1\&quot; style=\&quot;rounded=0;whiteSpace=wrap;html=1;fillColor=#fff2cc;strokeColor=#d6b656;fontFamily=Cambria;\&quot; value=\&quot;N\&quot; vertex=\&quot;1\&quot;&gt;&lt;mxGeometry height=\&quot;60\&quot; width=\&quot;100\&quot; x=\&quot;60\&quot; y=\&quot;220\&quot; as=\&quot;geometry\&quot;/&gt;&lt;/mxCell&gt;&lt;mxCell id=\&quot;-cElDobEpKjPaM26PwZY-4\&quot; parent=\&quot;1\&quot; style=\&quot;rounded=0;whiteSpace=wrap;html=1;fillColor=#fff2cc;strokeColor=#d6b656;fontFamily=Cambria;\&quot; value=\&quot;parameter ID\&quot; vertex=\&quot;1\&quot;&gt;&lt;mxGeometry height=\&quot;60\&quot; width=\&quot;100\&quot; x=\&quot;160\&quot; y=\&quot;220\&quot; as=\&quot;geometry\&quot;/&gt;&lt;/mxCell&gt;&lt;mxCell id=\&quot;-cElDobEpKjPaM26PwZY-5\&quot; edge=\&quot;1\&quot; parent=\&quot;1\&quot; style=\&quot;endArrow=baseDash;html=1;rounded=0;startArrow=baseDash;startFill=0;endFill=0;fontFamily=Cambria;labelBackgroundColor=none;\&quot; value=\&quot;&amp;lt;font style=&amp;quot;font-size: 12px;&amp;quot;&amp;gt;&amp;amp;nbsp;repeated N times&amp;amp;nbsp;&amp;lt;/font&amp;gt;\&quot;&gt;&lt;mxGeometry height=\&quot;50\&quot; relative=\&quot;1\&quot; width=\&quot;50\&quot; y=\&quot;20\&quot; as=\&quot;geometry\&quot;&gt;&lt;mxPoint as=\&quot;offset\&quot;/&gt;&lt;mxPoint x=\&quot;160\&quot; y=\&quot;199\&quot; as=\&quot;sourcePoint\&quot;/&gt;&lt;mxPoint x=\&quot;760\&quot; y=\&quot;199\&quot; as=\&quot;targetPoint\&quot;/&gt;&lt;/mxGeometry&gt;&lt;/mxCell&gt;&lt;mxCell id=\&quot;-cElDobEpKjPaM26PwZY-1\&quot; parent=\&quot;1\&quot; style=\&quot;rounded=0;whiteSpace=wrap;html=1;fillColor=#f5f5f5;strokeColor=#666666;fontColor=#333333;fontFamily=Cambria;\&quot; value=\&quot;unsigned&amp;amp;nbsp;&amp;lt;span style=&amp;quot;background-color: transparent; color: light-dark(rgb(51, 51, 51), rgb(193, 193, 193));&amp;quot;&amp;gt;integer&amp;lt;/span&amp;gt;\&quot; vertex=\&quot;1\&quot;&gt;&lt;mxGeometry height=\&quot;40\&quot; width=\&quot;100\&quot; x=\&quot;60\&quot; y=\&quot;280\&quot; as=\&quot;geometry\&quot;/&gt;&lt;/mxCell&gt;&lt;mxCell id=\&quot;-cElDobEpKjPaM26PwZY-2\&quot; parent=\&quot;1\&quot; style=\&quot;rounded=0;whiteSpace=wrap;html=1;fillColor=#f5f5f5;strokeColor=#666666;fontColor=#333333;fontFamily=Cambria;\&quot; value=\&quot;enumerated\&quot; vertex=\&quot;1\&quot;&gt;&lt;mxGeometry height=\&quot;40\&quot; width=\&quot;100\&quot; x=\&quot;160\&quot; y=\&quot;280\&quot; as=\&quot;geometry\&quot;/&gt;&lt;/mxCell&gt;&lt;mxCell id=\&quot;-cElDobEpKjPaM26PwZY-6\&quot; parent=\&quot;1\&quot; style=\&quot;rounded=0;whiteSpace=wrap;html=1;fillColor=#fff2cc;strokeColor=#d6b656;fontFamily=Cambria;\&quot; value=\&quot;application&amp;amp;nbsp;&amp;lt;div&amp;gt;process&amp;lt;span style=&amp;quot;background-color: transparent; color: light-dark(rgb(0, 0, 0), rgb(255, 255, 255));&amp;quot;&amp;gt;&amp;amp;nbsp;ID&amp;lt;/span&amp;gt;&amp;lt;/div&amp;gt;\&quot; vertex=\&quot;1\&quot;&gt;&lt;mxGeometry height=\&quot;60\&quot; width=\&quot;120\&quot; x=\&quot;260\&quot; y=\&quot;220\&quot; as=\&quot;geometry\&quot;/&gt;&lt;/mxCell&gt;&lt;mxCell id=\&quot;-cElDobEpKjPaM26PwZY-7\&quot; parent=\&quot;1\&quot; style=\&quot;rounded=0;whiteSpace=wrap;html=1;fillColor=#f5f5f5;strokeColor=#666666;fontColor=#333333;fontFamily=Cambria;\&quot; value=\&quot;enumerated\&quot; vertex=\&quot;1\&quot;&gt;&lt;mxGeometry height=\&quot;40\&quot; width=\&quot;120\&quot; x=\&quot;260\&quot; y=\&quot;280\&quot; as=\&quot;geometry\&quot;/&gt;&lt;/mxCell&gt;&lt;mxCell id=\&quot;-cElDobEpKjPaM26PwZY-10\&quot; parent=\&quot;1\&quot; style=\&quot;rounded=0;whiteSpace=wrap;html=1;fillColor=#fff2cc;strokeColor=#d6b656;fontFamily=Cambria;\&quot; value=\&quot;service&amp;amp;nbsp;&amp;lt;div&amp;gt;type&amp;lt;/div&amp;gt;\&quot; vertex=\&quot;1\&quot;&gt;&lt;mxGeometry height=\&quot;60\&quot; width=\&quot;80\&quot; x=\&quot;380\&quot; y=\&quot;220\&quot; as=\&quot;geometry\&quot;/&gt;&lt;/mxCell&gt;&lt;mxCell id=\&quot;-cElDobEpKjPaM26PwZY-11\&quot; parent=\&quot;1\&quot; style=\&quot;rounded=0;whiteSpace=wrap;html=1;fillColor=#f5f5f5;strokeColor=#666666;fontColor=#333333;fontFamily=Cambria;\&quot; value=\&quot;enumerated\&quot; vertex=\&quot;1\&quot;&gt;&lt;mxGeometry height=\&quot;40\&quot; width=\&quot;80\&quot; x=\&quot;380\&quot; y=\&quot;280\&quot; as=\&quot;geometry\&quot;/&gt;&lt;/mxCell&gt;&lt;mxCell id=\&quot;AiiWusZk_OoLUvZR4fiY-1\&quot; parent=\&quot;1\&quot; style=\&quot;rounded=0;whiteSpace=wrap;html=1;fillColor=#fff2cc;strokeColor=#d6b656;fontFamily=Cambria;\&quot; value=\&quot;message&amp;amp;nbsp;&amp;lt;div&amp;gt;type&amp;lt;/div&amp;gt;\&quot; vertex=\&quot;1\&quot;&gt;&lt;mxGeometry height=\&quot;60\&quot; width=\&quot;80\&quot; x=\&quot;460\&quot; y=\&quot;220\&quot; as=\&quot;geometry\&quot;/&gt;&lt;/mxCell&gt;&lt;mxCell id=\&quot;AiiWusZk_OoLUvZR4fiY-2\&quot; parent=\&quot;1\&quot; style=\&quot;rounded=0;whiteSpace=wrap;html=1;fillColor=#f5f5f5;strokeColor=#666666;fontColor=#333333;fontFamily=Cambria;\&quot; value=\&quot;enumerated\&quot; vertex=\&quot;1\&quot;&gt;&lt;mxGeometry height=\&quot;40\&quot; width=\&quot;80\&quot; x=\&quot;460\&quot; y=\&quot;280\&quot; as=\&quot;geometry\&quot;/&gt;&lt;/mxCell&gt;&lt;mxCell id=\&quot;AiiWusZk_OoLUvZR4fiY-3\&quot; parent=\&quot;1\&quot; style=\&quot;rounded=0;whiteSpace=wrap;html=1;fillColor=#fff2cc;strokeColor=#d6b656;fontFamily=Cambria;\&quot; value=\&quot;housekeeping&amp;lt;div&amp;gt;parameter report structure ID /&amp;amp;nbsp;&amp;lt;/div&amp;gt;&amp;lt;div&amp;gt;event definition ID&amp;lt;/div&amp;gt;\&quot; vertex=\&quot;1\&quot;&gt;&lt;mxGeometry height=\&quot;60\&quot; width=\&quot;120\&quot; x=\&quot;540\&quot; y=\&quot;220\&quot; as=\&quot;geometry\&quot;/&gt;&lt;/mxCell&gt;&lt;mxCell id=\&quot;AiiWusZk_OoLUvZR4fiY-4\&quot; parent=\&quot;1\&quot; style=\&quot;rounded=0;whiteSpace=wrap;html=1;fillColor=#f5f5f5;strokeColor=#666666;fontColor=#333333;fontFamily=Cambria;\&quot; value=\&quot;enumerated\&quot; vertex=\&quot;1\&quot;&gt;&lt;mxGeometry height=\&quot;40\&quot; width=\&quot;120\&quot; x=\&quot;540\&quot; y=\&quot;280\&quot; as=\&quot;geometry\&quot;/&gt;&lt;/mxCell&gt;&lt;mxCell id=\&quot;AiiWusZk_OoLUvZR4fiY-5\&quot; parent=\&quot;1\&quot; style=\&quot;rounded=0;whiteSpace=wrap;html=1;fillColor=#fff2cc;strokeColor=#d6b656;fontFamily=Cambria;\&quot; value=\&quot;offset\&quot; vertex=\&quot;1\&quot;&gt;&lt;mxGeometry height=\&quot;60\&quot; width=\&quot;100\&quot; x=\&quot;660\&quot; y=\&quot;220\&quot; as=\&quot;geometry\&quot;/&gt;&lt;/mxCell&gt;&lt;mxCell id=\&quot;AiiWusZk_OoLUvZR4fiY-6\&quot; parent=\&quot;1\&quot; style=\&quot;rounded=0;whiteSpace=wrap;html=1;fillColor=#f5f5f5;strokeColor=#666666;fontColor=#333333;fontFamily=Cambria;\&quot; value=\&quot;unsigned integer\&quot; vertex=\&quot;1\&quot;&gt;&lt;mxGeometry height=\&quot;40\&quot; width=\&quot;100\&quot; x=\&quot;660\&quot; y=\&quot;280\&quot; as=\&quot;geometry\&quot;/&gt;&lt;/mxCell&gt;&lt;/root&gt;&lt;/mxGraphModel&gt;&lt;/diagram&gt;&lt;/mxfile&gt;&quot;,&quot;toolbar&quot;:&quot;pages zoom layers lightbox&quot;,&quot;page&quot;:0}"></div>
 <script type="text/javascript" src="https://app.diagrams.net/js/viewer-static.min.js"></script>
 </body>
 </html>

diff --git a/img/PUSpkt_26_2.html b/img/PUSpkt_26_2.html
@@ -6,7 +6,7 @@
 <meta charset="utf-8"/>
 </head>
 <body>
-<div class="mxgraph" style="max-width:100%;border:1px solid transparent;" data-mxgraph="{&quot;highlight&quot;:&quot;#0000ff&quot;,&quot;nav&quot;:true,&quot;resize&quot;:true,&quot;xml&quot;:&quot;&lt;mxfile host=\&quot;app.diagrams.net\&quot;&gt;&lt;diagram name=\&quot;Página-1\&quot; id=\&quot;zq5ytOIrGKT4dHeC8xlt\&quot;&gt;&lt;mxGraphModel dx=\&quot;668\&quot; dy=\&quot;692\&quot; grid=\&quot;1\&quot; gridSize=\&quot;10\&quot; guides=\&quot;1\&quot; tooltips=\&quot;1\&quot; connect=\&quot;1\&quot; arrows=\&quot;1\&quot; fold=\&quot;1\&quot; page=\&quot;1\&quot; pageScale=\&quot;1\&quot; pageWidth=\&quot;1169\&quot; pageHeight=\&quot;827\&quot; math=\&quot;0\&quot; shadow=\&quot;0\&quot;&gt;&lt;root&gt;&lt;mxCell id=\&quot;0\&quot;/&gt;&lt;mxCell id=\&quot;1\&quot; parent=\&quot;0\&quot;/&gt;&lt;mxCell id=\&quot;-cElDobEpKjPaM26PwZY-3\&quot; parent=\&quot;1\&quot; style=\&quot;rounded=0;whiteSpace=wrap;html=1;fillColor=#fff2cc;strokeColor=#d6b656;fontFamily=Cambria;\&quot; value=\&quot;N\&quot; vertex=\&quot;1\&quot;&gt;&lt;mxGeometry height=\&quot;40\&quot; width=\&quot;100\&quot; x=\&quot;140\&quot; y=\&quot;240\&quot; as=\&quot;geometry\&quot;/&gt;&lt;/mxCell&gt;&lt;mxCell id=\&quot;-cElDobEpKjPaM26PwZY-4\&quot; parent=\&quot;1\&quot; style=\&quot;rounded=0;whiteSpace=wrap;html=1;fillColor=#fff2cc;strokeColor=#d6b656;fontFamily=Cambria;\&quot; value=\&quot;parameter ID\&quot; vertex=\&quot;1\&quot;&gt;&lt;mxGeometry height=\&quot;40\&quot; width=\&quot;160\&quot; x=\&quot;240\&quot; y=\&quot;240\&quot; as=\&quot;geometry\&quot;/&gt;&lt;/mxCell&gt;&lt;mxCell id=\&quot;-cElDobEpKjPaM26PwZY-5\&quot; edge=\&quot;1\&quot; parent=\&quot;1\&quot; style=\&quot;endArrow=baseDash;html=1;rounded=0;startArrow=baseDash;startFill=0;endFill=0;fontFamily=Cambria;labelBackgroundColor=none;\&quot; value=\&quot;&amp;lt;font style=&amp;quot;font-size: 12px;&amp;quot;&amp;gt;&amp;amp;nbsp;repeated N times&amp;amp;nbsp;&amp;lt;/font&amp;gt;\&quot;&gt;&lt;mxGeometry height=\&quot;50\&quot; relative=\&quot;1\&quot; width=\&quot;50\&quot; y=\&quot;20\&quot; as=\&quot;geometry\&quot;&gt;&lt;mxPoint as=\&quot;offset\&quot;/&gt;&lt;mxPoint x=\&quot;240\&quot; y=\&quot;220\&quot; as=\&quot;sourcePoint\&quot;/&gt;&lt;mxPoint x=\&quot;400\&quot; y=\&quot;220\&quot; as=\&quot;targetPoint\&quot;/&gt;&lt;/mxGeometry&gt;&lt;/mxCell&gt;&lt;mxCell id=\&quot;-cElDobEpKjPaM26PwZY-1\&quot; parent=\&quot;1\&quot; style=\&quot;rounded=0;whiteSpace=wrap;html=1;fillColor=#f5f5f5;strokeColor=#666666;fontColor=#333333;fontFamily=Cambria;\&quot; value=\&quot;unsigned&amp;amp;nbsp;&amp;lt;span style=&amp;quot;background-color: transparent; color: light-dark(rgb(51, 51, 51), rgb(193, 193, 193));&amp;quot;&amp;gt;integer&amp;lt;/span&amp;gt;&amp;lt;div&amp;gt;&amp;lt;span style=&amp;quot;background-color: transparent; color: light-dark(rgb(51, 51, 51), rgb(193, 193, 193));&amp;quot;&amp;gt;(2 bytes)&amp;lt;/span&amp;gt;&amp;lt;/div&amp;gt;\&quot; vertex=\&quot;1\&quot;&gt;&lt;mxGeometry height=\&quot;40\&quot; width=\&quot;100\&quot; x=\&quot;140\&quot; y=\&quot;280\&quot; as=\&quot;geometry\&quot;/&gt;&lt;/mxCell&gt;&lt;mxCell id=\&quot;-cElDobEpKjPaM26PwZY-2\&quot; parent=\&quot;1\&quot; style=\&quot;rounded=0;whiteSpace=wrap;html=1;fillColor=#f5f5f5;strokeColor=#666666;fontColor=#333333;fontFamily=Cambria;\&quot; value=\&quot;enumerated&amp;lt;div&amp;gt;(4 bytes)&amp;lt;/div&amp;gt;\&quot; vertex=\&quot;1\&quot;&gt;&lt;mxGeometry height=\&quot;40\&quot; width=\&quot;160\&quot; x=\&quot;240\&quot; y=\&quot;280\&quot; as=\&quot;geometry\&quot;/&gt;&lt;/mxCell&gt;&lt;/root&gt;&lt;/mxGraphModel&gt;&lt;/diagram&gt;&lt;/mxfile&gt;&quot;,&quot;toolbar&quot;:&quot;pages zoom layers lightbox&quot;,&quot;page&quot;:0}"></div>
+<div class="mxgraph" style="max-width:100%;border:1px solid transparent;" data-mxgraph="{&quot;highlight&quot;:&quot;#0000ff&quot;,&quot;nav&quot;:true,&quot;resize&quot;:true,&quot;xml&quot;:&quot;&lt;mxfile host=\&quot;app.diagrams.net\&quot;&gt;&lt;diagram name=\&quot;Página-1\&quot; id=\&quot;zq5ytOIrGKT4dHeC8xlt\&quot;&gt;&lt;mxGraphModel dx=\&quot;1087\&quot; dy=\&quot;737\&quot; grid=\&quot;1\&quot; gridSize=\&quot;10\&quot; guides=\&quot;1\&quot; tooltips=\&quot;1\&quot; connect=\&quot;1\&quot; arrows=\&quot;1\&quot; fold=\&quot;1\&quot; page=\&quot;1\&quot; pageScale=\&quot;1\&quot; pageWidth=\&quot;1169\&quot; pageHeight=\&quot;827\&quot; math=\&quot;0\&quot; shadow=\&quot;0\&quot;&gt;&lt;root&gt;&lt;mxCell id=\&quot;0\&quot;/&gt;&lt;mxCell id=\&quot;1\&quot; parent=\&quot;0\&quot;/&gt;&lt;mxCell id=\&quot;-cElDobEpKjPaM26PwZY-3\&quot; parent=\&quot;1\&quot; style=\&quot;rounded=0;whiteSpace=wrap;html=1;fillColor=#fff2cc;strokeColor=#d6b656;fontFamily=Cambria;\&quot; value=\&quot;N\&quot; vertex=\&quot;1\&quot;&gt;&lt;mxGeometry height=\&quot;40\&quot; width=\&quot;100\&quot; x=\&quot;140\&quot; y=\&quot;240\&quot; as=\&quot;geometry\&quot;/&gt;&lt;/mxCell&gt;&lt;mxCell id=\&quot;-cElDobEpKjPaM26PwZY-4\&quot; parent=\&quot;1\&quot; style=\&quot;rounded=0;whiteSpace=wrap;html=1;fillColor=#fff2cc;strokeColor=#d6b656;fontFamily=Cambria;\&quot; value=\&quot;parameter ID\&quot; vertex=\&quot;1\&quot;&gt;&lt;mxGeometry height=\&quot;40\&quot; width=\&quot;160\&quot; x=\&quot;240\&quot; y=\&quot;240\&quot; as=\&quot;geometry\&quot;/&gt;&lt;/mxCell&gt;&lt;mxCell id=\&quot;-cElDobEpKjPaM26PwZY-5\&quot; edge=\&quot;1\&quot; parent=\&quot;1\&quot; style=\&quot;endArrow=baseDash;html=1;rounded=0;startArrow=baseDash;startFill=0;endFill=0;fontFamily=Cambria;labelBackgroundColor=none;\&quot; value=\&quot;&amp;lt;font style=&amp;quot;font-size: 12px;&amp;quot;&amp;gt;&amp;amp;nbsp;repeated N times&amp;amp;nbsp;&amp;lt;/font&amp;gt;\&quot;&gt;&lt;mxGeometry height=\&quot;50\&quot; relative=\&quot;1\&quot; width=\&quot;50\&quot; y=\&quot;20\&quot; as=\&quot;geometry\&quot;&gt;&lt;mxPoint as=\&quot;offset\&quot;/&gt;&lt;mxPoint x=\&quot;240\&quot; y=\&quot;220\&quot; as=\&quot;sourcePoint\&quot;/&gt;&lt;mxPoint x=\&quot;400\&quot; y=\&quot;220\&quot; as=\&quot;targetPoint\&quot;/&gt;&lt;/mxGeometry&gt;&lt;/mxCell&gt;&lt;mxCell id=\&quot;-cElDobEpKjPaM26PwZY-1\&quot; parent=\&quot;1\&quot; style=\&quot;rounded=0;whiteSpace=wrap;html=1;fillColor=#f5f5f5;strokeColor=#666666;fontColor=#333333;fontFamily=Cambria;\&quot; value=\&quot;unsigned&amp;amp;nbsp;&amp;lt;span style=&amp;quot;background-color: transparent; color: light-dark(rgb(51, 51, 51), rgb(193, 193, 193));&amp;quot;&amp;gt;integer&amp;lt;/span&amp;gt;\&quot; vertex=\&quot;1\&quot;&gt;&lt;mxGeometry height=\&quot;40\&quot; width=\&quot;100\&quot; x=\&quot;140\&quot; y=\&quot;280\&quot; as=\&quot;geometry\&quot;/&gt;&lt;/mxCell&gt;&lt;mxCell id=\&quot;-cElDobEpKjPaM26PwZY-2\&quot; parent=\&quot;1\&quot; style=\&quot;rounded=0;whiteSpace=wrap;html=1;fillColor=#f5f5f5;strokeColor=#666666;fontColor=#333333;fontFamily=Cambria;\&quot; value=\&quot;enumerated\&quot; vertex=\&quot;1\&quot;&gt;&lt;mxGeometry height=\&quot;40\&quot; width=\&quot;160\&quot; x=\&quot;240\&quot; y=\&quot;280\&quot; as=\&quot;geometry\&quot;/&gt;&lt;/mxCell&gt;&lt;/root&gt;&lt;/mxGraphModel&gt;&lt;/diagram&gt;&lt;/mxfile&gt;&quot;,&quot;toolbar&quot;:&quot;pages zoom layers lightbox&quot;,&quot;page&quot;:0}"></div>
 <script type="text/javascript" src="https://app.diagrams.net/js/viewer-static.min.js"></script>
 </body>
 </html>
